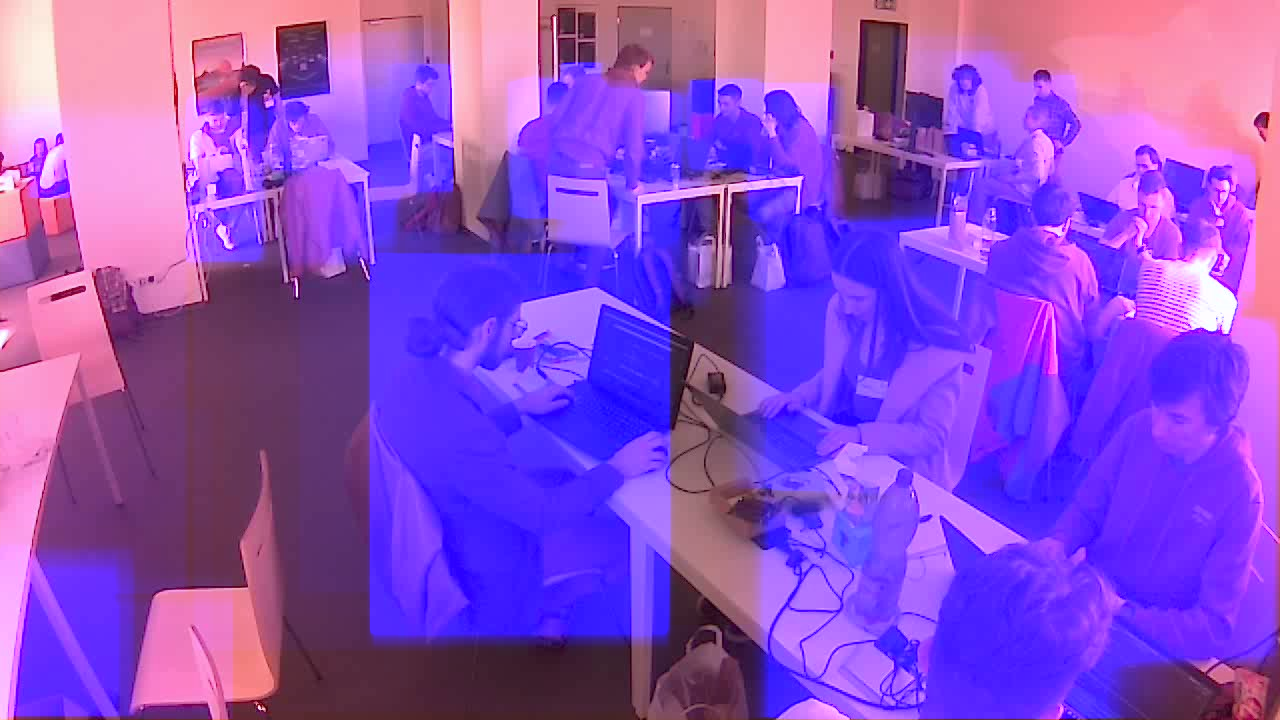
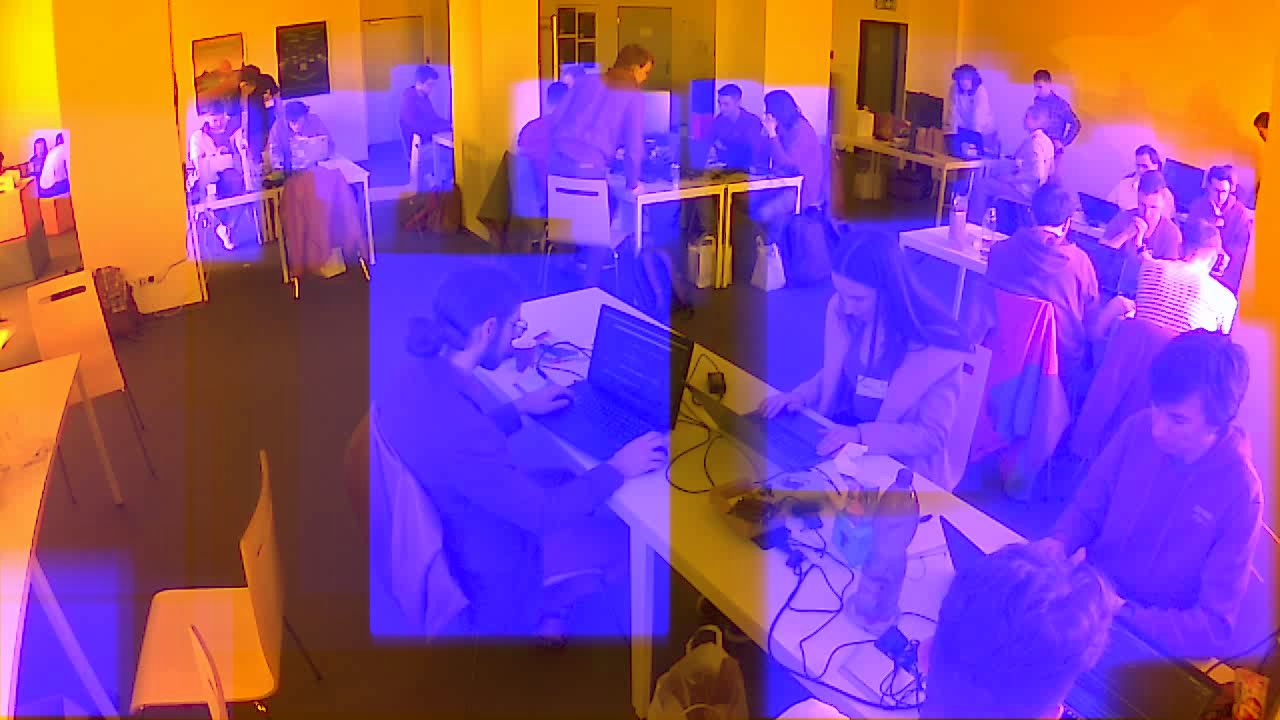
add heatmap_script that does all the work

diff --git a/heatmap_script.py b/heatmap_script.py
@@ -1,0 +1,17 @@
+# run heatmap.py
+# run bluescale.py
+# run merge_images_bluescale.py
+
+import subprocess
+
+# FOR THIS TO WORK, YOU NEED TO HAVE THE FOLLOWING FILES IN THE SAME DIRECTORY AS THIS SCRIPT:
+# heatmap.py - this is the script that generates the heatmap to file heatmap.png
+# bluescale.py - this is the script that generates the bluescale heatmap from heatmap.png to file bluescale.png
+# merge_images_bluescale.py - this is the script that sets blue channel of photo.png to blue channel of bluescale.png
+#                             and saves the result to file merged_image_bluescale.png
+# photo.png - this is the background image
+# rectangles.txt - this is the input file for heatmap.py
+
+subprocess.run(["python", "heatmap.py"])
+subprocess.run(["python", "bluescale.py"])
+subprocess.run(["python", "merge_images_bluescale.py"])

diff --git a/merge_images.py b/merge_images.py
@@ -1,7 +1,7 @@
 from PIL import Image
 
 # Load the background and foreground images
-photo = Image.open("photo2.png")
+photo = Image.open("photo.png")
 heatmap = Image.open("heatmap.png")
 
 # Resize the foreground image to match the size of the background image

diff --git a/merge_images_bluescale.py b/merge_images_bluescale.py
@@ -1,7 +1,7 @@
 import numpy as np
 from PIL import Image
 
-photo = 'photo2.png'
+photo = 'photo.png'
 heatmap = 'bluescale.png'
 
 # Load the background and foreground files

diff --git a/heatmap.py b/heatmap.py
@@ -2,7 +2,7 @@ import numpy as np
 import cv2
 import matplotlib.pyplot as plt
 
-filename = 'rectangles_y2.txt'
+filename = 'rectangles.txt'
 
 height = 720
 width = 1280
